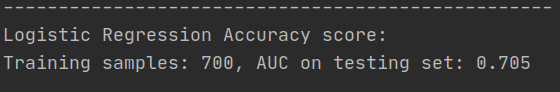
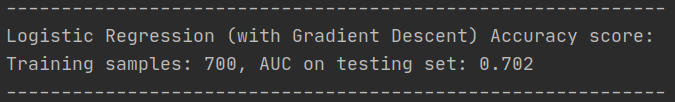
added auc score images updated README.md

diff --git a/README.md b/README.md
@@ -82,8 +82,12 @@ Decision Trees are easy to understand, and easy to debug. Decision trees implici
 Logistic Regression implementation is like walk in the park and efficient to train.
 
 ### Accuracy score from Logistic Regression:
+- Accuracy score with gradient descent:
 <br><img width="480" alt="auc_score_lr.png" src="https://raw.githubusercontent.com/aksh-51n9h/logit_ad_click/main/images/auc_score/auc_score_lr.png"><br>
+- Accuracy score with stochastic gradient descent:
+<br><img width="480" alt="auc_score_lr.png" src="https://raw.githubusercontent.com/aksh-51n9h/logit_ad_click/main/images/auc_score/auc_score_lr_sgd.png"><br>
 
 ***We've implemented both the techniques from scratch for better understanding of ours.***
 
-## Comparision between Decision Tree and Logistic Regression:
+## Comparison between Decision Tree and Logistic Regression:
+From our training results we can conclude that Logistic Regression with stochastic gradient descent optimizer has more accuracy for determining the ad click probability.
